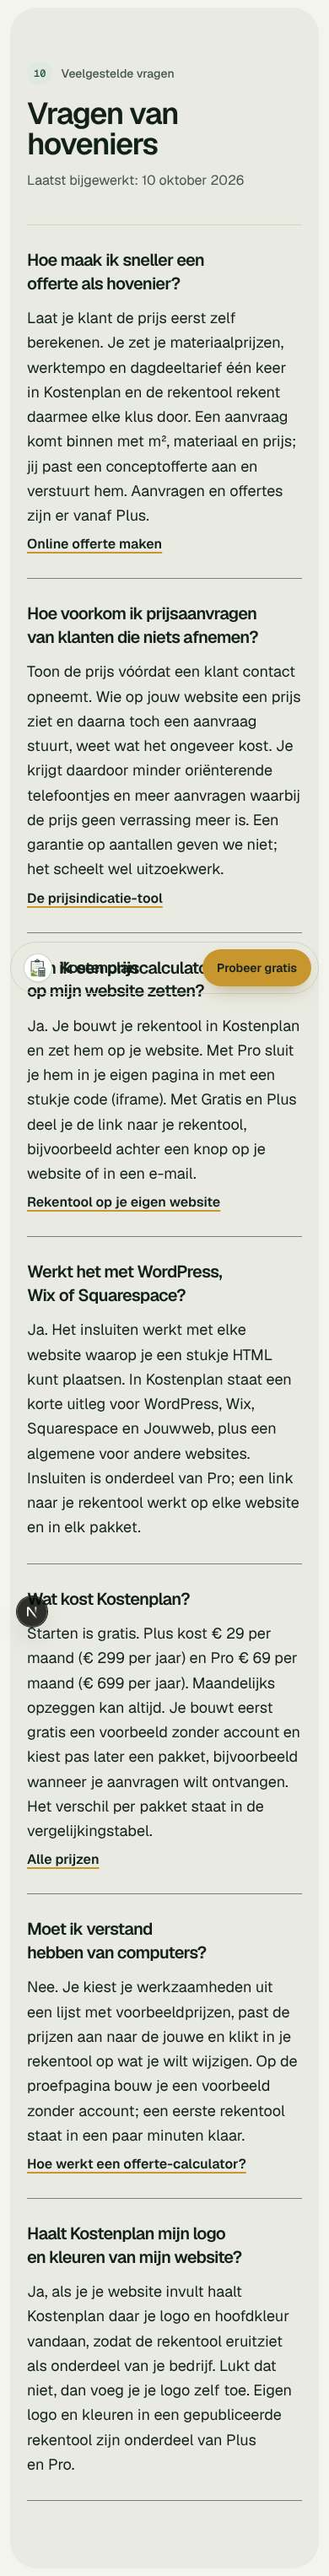
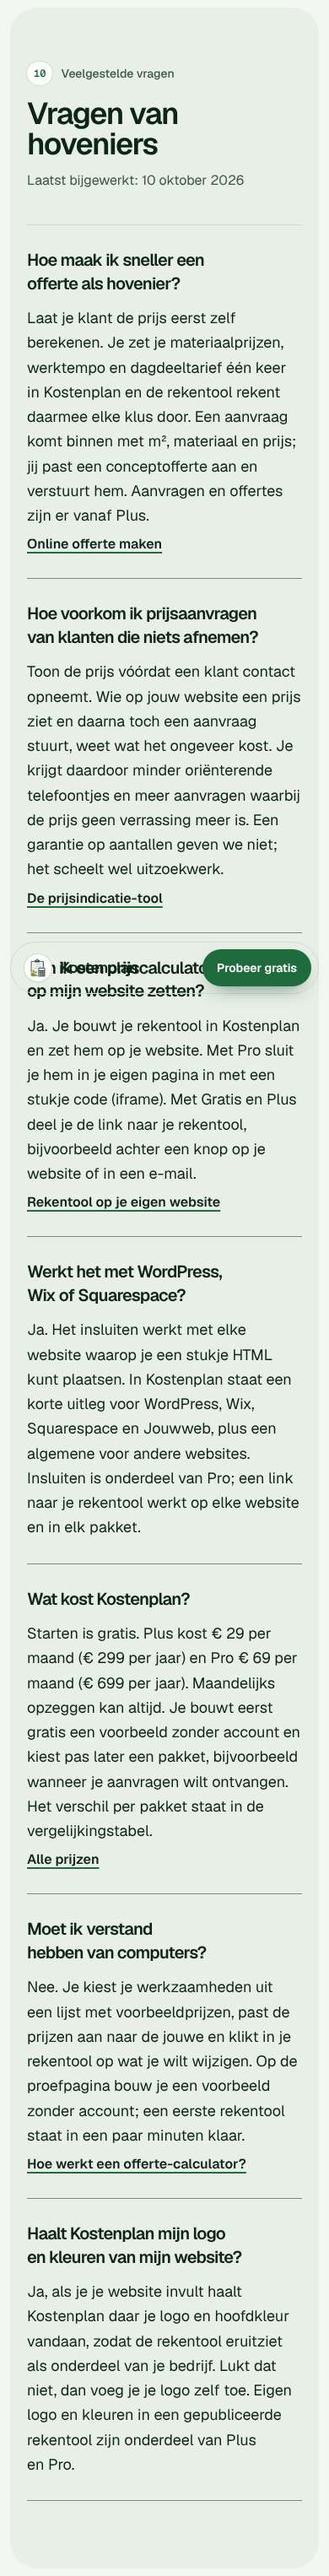
Landing: groen als merkkleur (groene hoofdknoppen en groen getinte neutralen), oker alleen nog als accent (#48)
Claude-Session: https://claude.ai/code/session_01HFvD2smTdENKXghem5TyYa

Changed region(s): [[0.6154, 0.3423, 0.9538, 0.4045], [0.0615, 0.6223, 0.1538, 0.6535], [0.0923, 0.0, 0.1538, 0.0311]]

diff --git a/app/components/landing/website-invoer.tsx b/app/components/landing/website-invoer.tsx
@@ -8,7 +8,7 @@ import { cn } from "@/app/lib/cn";
 
 // "Jouw website" → /probeer?site=…. Werkt ook zonder JavaScript (gewoon een
 // GET-formulier; /probeer normaliseert zelf). Met JavaScript valideren we eerst.
-export function WebsiteInvoer({ bron, op = "licht", className }: { bron: KlikBron; op?: "licht" | "oker"; className?: string }) {
+export function WebsiteInvoer({ bron, op = "licht", className }: { bron: KlikBron; op?: "licht" | "groen"; className?: string }) {
   const router = useRouter();
   const id = useId();
   const [waarde, setWaarde] = useState("");
@@ -26,7 +26,7 @@ export function WebsiteInvoer({ bron, op = "licht", className }: { bron: KlikBro
 
   return (
     <form action="/probeer" method="get" onSubmit={verstuur} noValidate className={cn("flex flex-col gap-2", className)}>
-      <label htmlFor={id} className="text-sm font-semibold text-lp-inkt">
+      <label htmlFor={id} className={cn("text-sm font-semibold", op === "groen" ? "text-white" : "text-lp-inkt")}>
         Jouw website
       </label>
       <div className="flex flex-col gap-2 sm:flex-row">
@@ -49,13 +49,13 @@ export function WebsiteInvoer({ bron, op = "licht", className }: { bron: KlikBro
           type="submit"
           className={cn(
             "h-12 cursor-pointer whitespace-nowrap rounded-full transition-[background-color,transform] duration-200 active:scale-[0.98] motion-reduce:transition-none border px-6 text-base font-semibold",
-            "border-lp-bos-900 bg-lp-bos-900 text-white hover:bg-lp-bos-950"
+            op === "groen" ? "border-transparent bg-lp-oker text-lp-inkt hover:bg-lp-oker-licht" : "border-lp-bos-800 bg-lp-bos-800 text-white hover:bg-lp-bos-900"
           )}
         >
           Haal mijn logo en kleuren op
         </button>
       </div>
-      <p id={`${id}-hulp`} role={fout ? "alert" : undefined} className={cn("text-sm", fout ? "font-semibold text-red-800" : op === "oker" ? "text-lp-inkt" : "text-lp-inkt-2")}>
+      <p id={`${id}-hulp`} role={fout ? "alert" : undefined} className={cn("text-sm", fout ? "font-semibold text-red-800" : op === "groen" ? "text-lp-bos-100" : "text-lp-inkt-2")}>
         {fout ?? "Je logo en kleuren komen er dan al in te staan. Geen account nodig."}
       </p>
     </form>

diff --git a/app/components/landing/sectie-werkzaamheden.tsx b/app/components/landing/sectie-werkzaamheden.tsx
@@ -36,11 +36,11 @@ export function SectieWerkzaamheden() {
             Elke werkzaamheid rekent op zijn eigen manier, met jouw materialen en jouw werktempo. Dit zijn de werkzaamheden waarmee je begint; je past ze aan of voegt er zelf een toe.
           </p>
           <p className="mt-4 text-base">
-            <Link href="/voorbeelden-rekentools" className="font-semibold underline decoration-lp-oker decoration-2 underline-offset-4">
+            <Link href="/voorbeelden-rekentools" className="font-semibold underline decoration-lp-bos-700 decoration-2 underline-offset-4">
               Voorbeelden van rekentools
             </Link>{" "}
             ·{" "}
-            <Link href="/rekentool-templates" className="font-semibold underline decoration-lp-oker decoration-2 underline-offset-4">
+            <Link href="/rekentool-templates" className="font-semibold underline decoration-lp-bos-700 decoration-2 underline-offset-4">
               Templates
             </Link>
           </p>
@@ -62,7 +62,7 @@ export function SectieWerkzaamheden() {
             <tbody>
               {HOVENIER_PRESETS.map((p, i) => (
                 <tr key={p.id} className="block border-b border-lp-lijn py-3 transition-colors hover:bg-lp-papier-2/70 md:table-row md:py-0">
-                  <td className="block font-lp-maat text-[11px] text-lp-oker-donker md:table-cell md:py-4 md:pr-2">{String(i + 1).padStart(2, "0")}</td>
+                  <td className="block font-lp-maat text-[11px] text-lp-bos-700 md:table-cell md:py-4 md:pr-2">{String(i + 1).padStart(2, "0")}</td>
                   <td className="hidden md:table-cell md:py-4">
                     <span aria-hidden="true" className={`block h-8 w-10 border border-lp-inkt ${STAAL[p.id] ?? ""}`} />
                   </td>

diff --git a/app/components/landing/sectie-prijzen.tsx b/app/components/landing/sectie-prijzen.tsx
@@ -87,7 +87,7 @@ export function SectiePrijzen() {
               <td />
               {PAKKETTEN.map((p) => (
                 <td key={p.id} className={`px-1.5 py-4 sm:px-4 ${p.id === "PLUS" ? "bg-lp-bos-100" : ""}`}>
-                  <CtaLink href={p.id === "GRATIS" ? "/probeer" : "/registreren"} bron="prijzen" actie="pakket-kiezen" pakket={p.id} stijl={p.id === "PLUS" ? "oker" : "lijn"} className="min-h-11 w-full px-1 text-sm sm:text-base">
+                  <CtaLink href={p.id === "GRATIS" ? "/probeer" : "/registreren"} bron="prijzen" actie="pakket-kiezen" pakket={p.id} stijl={p.id === "PLUS" ? "primair" : "lijn"} className="min-h-11 w-full px-1 text-sm sm:text-base">
                     {p.id === "GRATIS" ? "Begin" : "Kies"}
                     <span className="sr-only"> met {p.naam}</span>
                   </CtaLink>
@@ -102,7 +102,7 @@ export function SectiePrijzen() {
           Jaarlijks: Plus {eur(PRIJZEN.PLUS.JAARLIJKS)} per jaar, Pro {eur(PRIJZEN.PRO.JAARLIJKS)} per jaar. Je kunt altijd eerst een voorbeeld bouwen; je kiest pas later een pakket.
         </p>
         <div className="mt-8 flex flex-wrap items-center gap-4 border-t border-lp-lijn pt-8">
-          <CtaLink href="/probeer" bron="prijzen" stijl="oker" className="w-full sm:w-auto">
+          <CtaLink href="/probeer" bron="prijzen" stijl="primair" className="w-full sm:w-auto">
             Begin gratis, zonder account
           </CtaLink>
           <p className="text-base text-lp-inkt-2">Je bouwt eerst een voorbeeld. Een account maak je pas als je het wilt bewaren.</p>

diff --git a/app/components/landing/sectie-afsluiter.tsx b/app/components/landing/sectie-afsluiter.tsx
@@ -5,16 +5,16 @@ import { CtaLink } from "@/app/components/landing/cta-link";
 export function SectieAfsluiter() {
   return (
     <section aria-labelledby="h-afsluiter" className="px-3 py-2 sm:px-6">
-      <div className="mx-auto rounded-[2rem] sm:rounded-[2.5rem] bg-lp-oker grid max-w-7xl gap-8 px-5 py-14 sm:px-12 sm:py-20 lg:grid-cols-[minmax(0,6fr)_minmax(0,5fr)] lg:items-end lg:gap-16">
+      <div className="mx-auto rounded-[2rem] sm:rounded-[2.5rem] bg-lp-bos-800 text-white grid max-w-7xl gap-8 px-5 py-14 sm:px-12 sm:py-20 lg:grid-cols-[minmax(0,6fr)_minmax(0,5fr)] lg:items-end lg:gap-16">
         <div>
           <h2 id="h-afsluiter" className="text-4xl font-semibold leading-[1.02] sm:text-5xl">
             Bouw je rekentool vanavond nog.
           </h2>
-          <p className="mt-4 max-w-xl text-lg">Vul je website in en je ziet je rekentool met je eigen logo en kleuren. Gratis, zonder account.</p>
+          <p className="mt-4 max-w-xl text-lg text-lp-bos-100">Vul je website in en je ziet je rekentool met je eigen logo en kleuren. Gratis, zonder account.</p>
         </div>
         <div className="flex flex-col gap-5">
-          <WebsiteInvoer bron="afsluiter" op="oker" />
-          <CtaLink href="/probeer" bron="afsluiter" stijl="bos" className="w-full sm:w-fit">
+          <WebsiteInvoer bron="afsluiter" op="groen" />
+          <CtaLink href="/probeer" bron="afsluiter" stijl="lijnLicht" className="w-full sm:w-fit">
             Maak je rekentool, zonder website invullen
           </CtaLink>
         </div>

diff --git a/app/components/landing/sectie-aanvragen.tsx b/app/components/landing/sectie-aanvragen.tsx
@@ -39,7 +39,7 @@ export function SectieAanvragen() {
           </div>
           <p className="text-lg text-lp-inkt-2">
             Een aanvraag komt binnen met alles wat je nodig hebt: de maten, het gekozen materiaal, de prijs die je klant al gezien heeft en zijn gegevens. Jij past de conceptofferte aan en verstuurt hem pas als hij klopt.{" "}
-            <Link href="/online-offerte-maken" className="font-semibold underline decoration-lp-oker decoration-2 underline-offset-4 hover:text-lp-inkt">
+            <Link href="/online-offerte-maken" className="font-semibold underline decoration-lp-bos-700 decoration-2 underline-offset-4 hover:text-lp-inkt">
               Online offerte maken
             </Link>
             .
@@ -95,7 +95,7 @@ export function SectieAanvragen() {
             <div className="mx-auto max-w-sm rounded-xl border border-lp-lijn bg-lp-wit p-4 shadow-[0_14px_28px_-16px_rgba(19,32,26,0.45)]">
               <div className="flex items-baseline justify-between gap-2">
                 <p className="font-lp-display text-lg font-semibold">Offerte</p>
-                <p className="font-lp-maat text-[11px] tracking-wide text-lp-oker-donker">Concept</p>
+                <p className="font-lp-maat text-[11px] tracking-wide text-lp-bos-700">Concept</p>
               </div>
               <p className="mt-1 text-sm text-lp-inkt-2">{STIJLEN.groenhof.naam} · voorbeeld</p>
               <table className="mt-4 w-full text-sm">

diff --git a/app/globals.css b/app/globals.css
@@ -357,19 +357,19 @@ summary,
    Alleen gebruikt binnen .lp; de rest van de app blijft ongemoeid.
    ------------------------------------------------------------------ */
 :root {
-  --lp-bos-950: #0c2219;
-  --lp-bos-900: #123425;
-  --lp-bos-800: #1a4a35;
-  --lp-bos-700: #24634a;
-  --lp-bos-100: #dfe9e1;
-  --lp-papier: #f3f4ee;
-  --lp-papier-2: #e9ebe2;
-  --lp-wit: #fbfbf8;
-  --lp-staal: #e3e9e8;
-  --lp-lijn: #cfd5c8;
-  --lp-rand: #76827a;
-  --lp-inkt: #13201a;
-  --lp-inkt-2: #46534b;
+  --lp-bos-950: #0b2417;
+  --lp-bos-900: #0f3a24;
+  --lp-bos-800: #17512f;
+  --lp-bos-700: #1f6b3e;
+  --lp-bos-100: #e1efe4;
+  --lp-papier: #f3f7f2;
+  --lp-papier-2: #e8efe6;
+  --lp-wit: #fcfefb;
+  --lp-staal: #dfe9e4;
+  --lp-lijn: #d0dccf;
+  --lp-rand: #7a8c7d;
+  --lp-inkt: #0f2418;
+  --lp-inkt-2: #3f5546;
   --lp-oker: #c8962f;
   --lp-oker-donker: #7d5a10;
   --lp-oker-licht: #e6bf6a;

diff --git a/app/components/landing/cta-link.tsx b/app/components/landing/cta-link.tsx
@@ -5,6 +5,7 @@ import { trackKlik, type KlikActie, type KlikBron } from "@/app/lib/landing/trac
 import { cn } from "@/app/lib/cn";
 
 const STIJL = {
+  primair: "border-transparent bg-lp-bos-700 text-white shadow-[0_10px_24px_-12px_rgba(15,58,36,0.75)] hover:bg-lp-bos-800",
   oker: "border-transparent bg-lp-oker text-lp-inkt shadow-[0_10px_24px_-10px_rgba(125,90,16,0.55)] hover:bg-lp-oker-licht",
   bos: "border-transparent bg-lp-bos-800 text-white shadow-[0_10px_24px_-12px_rgba(18,52,37,0.7)] hover:bg-lp-bos-900",
   lijn: "border-lp-lijn bg-lp-wit text-lp-inkt hover:border-lp-rand",
@@ -17,7 +18,7 @@ export function CtaLink({
   bron,
   actie = "cta",
   pakket,
-  stijl = "oker",
+  stijl = "primair",
   pijl = false,
   className,
   children,

diff --git a/app/components/landing/maat.tsx b/app/components/landing/maat.tsx
@@ -42,7 +42,7 @@ export function MaatV({ label, className }: { label?: string; className?: string
 export function Positie({ nr, label, className }: { nr: string; label: string; className?: string }) {
   return (
     <div className={cn("flex items-center gap-2.5 text-sm font-medium text-lp-inkt-2", className)}>
-      <span className="flex h-7 min-w-7 items-center justify-center rounded-full bg-lp-bos-100 px-2 font-lp-maat text-xs font-medium text-lp-bos-800">{nr}</span>
+      <span className="flex h-7 min-w-7 items-center justify-center rounded-full bg-lp-wit px-2 font-lp-maat text-xs font-medium text-lp-bos-800 ring-1 ring-lp-lijn">{nr}</span>
       <span>{label}</span>
     </div>
   );

diff --git a/app/components/landing/sectie-zo-werkt-het.tsx b/app/components/landing/sectie-zo-werkt-het.tsx
@@ -141,7 +141,7 @@ export function SectieZoWerktHet() {
               <p className="mt-3 max-w-md text-lg text-lp-inkt-2">{s.tekst}</p>
               {s.nr === "03" && (
                 <p className="mt-4">
-                  <Link href="/rekentool-op-eigen-website" className="font-semibold underline decoration-lp-oker decoration-2 underline-offset-4">
+                  <Link href="/rekentool-op-eigen-website" className="font-semibold underline decoration-lp-bos-700 decoration-2 underline-offset-4">
                     Rekentool op je eigen website zetten
                   </Link>
                 </p>

diff --git a/app/components/landing/sectie-vragen.tsx b/app/components/landing/sectie-vragen.tsx
@@ -31,7 +31,7 @@ export function SectieVragen() {
                 <p className="text-lg leading-relaxed">{v.antwoord}</p>
                 {MEER[i] && (
                   <p className="mt-2 text-base">
-                    <Link href={MEER[i].href} className="font-semibold underline decoration-lp-oker decoration-2 underline-offset-4">
+                    <Link href={MEER[i].href} className="font-semibold underline decoration-lp-bos-700 decoration-2 underline-offset-4">
                       {MEER[i].label}
                     </Link>
                   </p>

diff --git a/app/components/landing/lp-footer.tsx b/app/components/landing/lp-footer.tsx
@@ -49,7 +49,7 @@ export function LpFooter() {
           <div className="grid grid-cols-2 gap-8 sm:grid-cols-3">
             {KOLOMMEN.map((k) => (
               <nav key={k.titel} aria-label={k.titel}>
-                <p className="font-lp-maat text-[11px] tracking-wide text-lp-oker-donker">{k.titel}</p>
+                <p className="font-lp-maat text-[11px] tracking-wide text-lp-bos-700">{k.titel}</p>
                 <ul className="mt-3 flex flex-col gap-1">
                   {k.links.map((l) => (
                     <li key={l.href}>

diff --git a/app/components/landing/landing.css b/app/components/landing/landing.css
@@ -116,7 +116,7 @@
   border-radius: 999px;
   background: var(--lp-oker);
   border: 3px solid #fff;
-  box-shadow: 0 2px 8px rgb(18 52 37 / 0.35);
+  box-shadow: 0 2px 8px rgb(15 58 36 / 0.35);
 }
 .lp input[type="range"]::-moz-range-thumb {
   height: 22px;
@@ -124,7 +124,7 @@
   border-radius: 999px;
   background: var(--lp-oker);
   border: 3px solid #fff;
-  box-shadow: 0 2px 8px rgb(18 52 37 / 0.35);
+  box-shadow: 0 2px 8px rgb(15 58 36 / 0.35);
 }
 
 /* Materiaalstalen: alleen in de werkzaamheden-tabel. */
